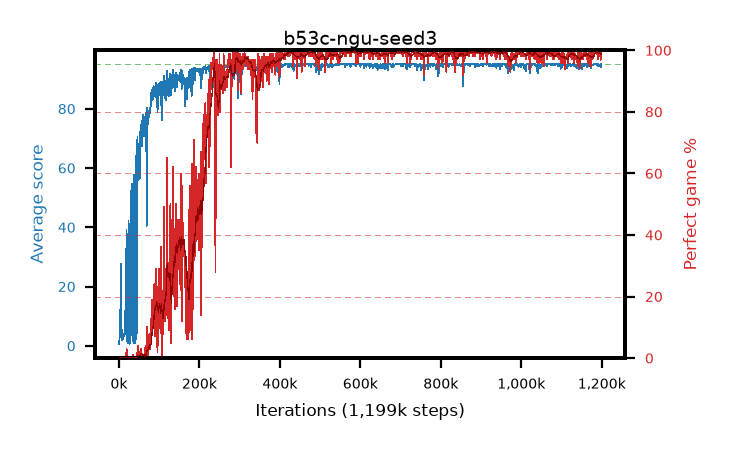
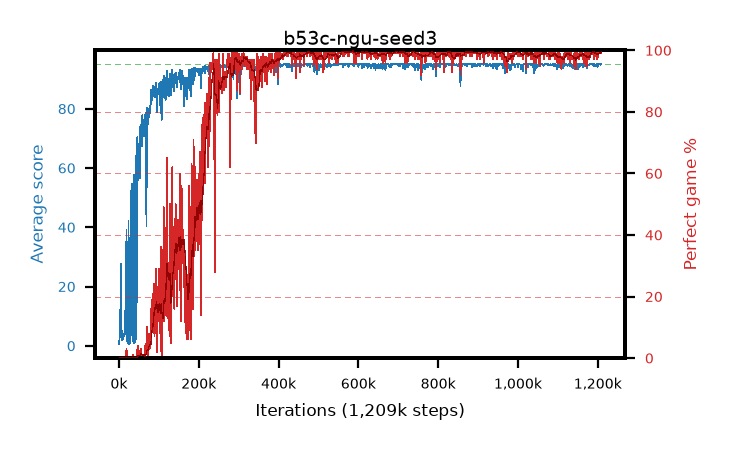
live pictures of 4 arm(s)

diff --git a/results/b53d-ngu-seed4/b53d-ngu-seed4.md b/results/b53d-ngu-seed4/b53d-ngu-seed4.md
@@ -1,6 +1,6 @@
 # b53d-ngu-seed4
 
-step **1,209,000** · 1209 evals · trailing **94.59** · peak **94.94** @1,040,000 · sef **75.0** · best30 **99.7** @1,024,000
+step **1,219,000** · 1219 evals · trailing **94.66** · peak **94.94** @1,040,000 · sef **75.2** · best30 **99.7** @1,024,000
 
 ## Config
 
@@ -80,15 +80,15 @@ step **1,209,000** · 1209 evals · trailing **94.59** · peak **94.94** @1,040,
 | 2000 | 2.39 | 1.47 | 0.0 | 8.0 | 1.286 | 0.0 | 0.4 |
 | 3000 | 6.99 | 3.31 | 0.0 | 25.0 | 5.34 | 0.0 | 0.4 |
 | ... | ... | ... | ... | ... | ... | ... | ... |
-| 1198000 | 95.0 | 94.57 | 95.0 | 95.0 | 193.711 | 100.0 | 0.4 |
-| 1199000 | 94.31 | 94.55 | 29.0 | 95.0 | 190.94 | 98.0 | 0.4 |
-| 1200000 | 95.0 | 94.55 | 95.0 | 95.0 | 193.718 | 100.0 | 0.4 |
-| 1201000 | 94.95 | 94.56 | 90.0 | 95.0 | 192.662 | 99.0 | 0.4 |
-| 1202000 | 94.95 | 94.56 | 90.0 | 95.0 | 192.673 | 99.0 | 0.4 |
-| 1203000 | 94.34 | 94.56 | 29.0 | 95.0 | 192.022 | 99.0 | 0.4 |
-| 1204000 | 95.0 | 94.56 | 95.0 | 95.0 | 193.723 | 100.0 | 0.4 |
-| 1205000 | 95.0 | 94.56 | 95.0 | 95.0 | 193.712 | 100.0 | 0.4 |
-| 1206000 | 94.95 | 94.55 | 90.0 | 95.0 | 192.626 | 99.0 | 0.4 |
-| 1207000 | 94.23 | 94.56 | 23.0 | 95.0 | 190.915 | 98.0 | 0.4 |
 | 1208000 | 94.52 | 94.54 | 47.0 | 95.0 | 192.204 | 99.0 | 0.4 |
 | 1209000 | 94.25 | 94.59 | 20.0 | 95.0 | 191.931 | 99.0 | 0.4 |
+| 1210000 | 94.06 | 94.58 | 21.0 | 95.0 | 190.738 | 98.0 | 0.4 |
+| 1211000 | 95.0 | 94.62 | 95.0 | 95.0 | 193.724 | 100.0 | 0.4 |
+| 1212000 | 95.0 | 94.64 | 95.0 | 95.0 | 193.706 | 100.0 | 0.4 |
+| 1213000 | 95.0 | 94.66 | 95.0 | 95.0 | 193.707 | 100.0 | 0.4 |
+| 1214000 | 94.26 | 94.64 | 23.0 | 95.0 | 190.957 | 98.0 | 0.4 |
+| 1215000 | 95.0 | 94.64 | 95.0 | 95.0 | 193.712 | 100.0 | 0.4 |
+| 1216000 | 94.24 | 94.65 | 19.0 | 95.0 | 191.91 | 99.0 | 0.4 |
+| 1217000 | 94.14 | 94.65 | 20.0 | 95.0 | 190.807 | 98.0 | 0.4 |
+| 1218000 | 95.0 | 94.66 | 95.0 | 95.0 | 193.713 | 100.0 | 0.4 |
+| 1219000 | 95.0 | 94.66 | 95.0 | 95.0 | 193.729 | 100.0 | 0.4 |

diff --git a/results/b53a-ngu-seed1/b53a-ngu-seed1.md b/results/b53a-ngu-seed1/b53a-ngu-seed1.md
@@ -1,6 +1,6 @@
 # b53a-ngu-seed1
 
-step **1,209,000** · 1209 evals · trailing **94.67** · peak **94.96** @643,000 · sef **76.8** · best30 **99.7** @643,000
+step **1,219,000** · 1219 evals · trailing **94.76** · peak **94.96** @643,000 · sef **76.9** · best30 **99.7** @643,000
 
 ## Config
 
@@ -80,15 +80,15 @@ step **1,209,000** · 1209 evals · trailing **94.67** · peak **94.96** @643,00
 | 2000 | 8.43 | 4.84 | 0.0 | 21.0 | 7.201 | 0.0 | 0.4 |
 | 3000 | 8.52 | 6.07 | 0.0 | 26.0 | 5.525 | 0.0 | 0.4 |
 | ... | ... | ... | ... | ... | ... | ... | ... |
-| 1198000 | 94.12 | 94.6 | 13.0 | 95.0 | 189.75 | 97.0 | 0.4 |
-| 1199000 | 94.81 | 94.63 | 85.0 | 95.0 | 190.441 | 97.0 | 0.4 |
-| 1200000 | 94.81 | 94.66 | 79.0 | 95.0 | 191.475 | 98.0 | 0.4 |
-| 1201000 | 94.41 | 94.67 | 36.0 | 95.0 | 192.068 | 99.0 | 0.4 |
-| 1202000 | 94.16 | 94.65 | 50.0 | 95.0 | 188.793 | 96.0 | 0.4 |
-| 1203000 | 94.62 | 94.68 | 60.0 | 95.0 | 191.277 | 98.0 | 0.4 |
-| 1204000 | 93.96 | 94.65 | 20.0 | 95.0 | 190.595 | 98.0 | 0.4 |
-| 1205000 | 94.83 | 94.65 | 78.0 | 95.0 | 192.494 | 99.0 | 0.4 |
-| 1206000 | 94.98 | 94.66 | 93.0 | 95.0 | 192.667 | 99.0 | 0.4 |
-| 1207000 | 95.0 | 94.66 | 95.0 | 95.0 | 193.688 | 100.0 | 0.4 |
 | 1208000 | 95.0 | 94.67 | 95.0 | 95.0 | 193.68 | 100.0 | 0.4 |
 | 1209000 | 94.93 | 94.67 | 88.0 | 95.0 | 192.624 | 99.0 | 0.4 |
+| 1210000 | 95.0 | 94.68 | 95.0 | 95.0 | 193.704 | 100.0 | 0.4 |
+| 1211000 | 94.97 | 94.72 | 92.0 | 95.0 | 192.625 | 99.0 | 0.4 |
+| 1212000 | 95.0 | 94.72 | 95.0 | 95.0 | 193.697 | 100.0 | 0.4 |
+| 1213000 | 95.0 | 94.72 | 95.0 | 95.0 | 193.655 | 100.0 | 0.4 |
+| 1214000 | 95.0 | 94.74 | 95.0 | 95.0 | 193.698 | 100.0 | 0.4 |
+| 1215000 | 94.0 | 94.71 | 10.0 | 95.0 | 190.622 | 98.0 | 0.4 |
+| 1216000 | 94.97 | 94.73 | 92.0 | 95.0 | 192.653 | 99.0 | 0.4 |
+| 1217000 | 95.0 | 94.76 | 95.0 | 95.0 | 193.71 | 100.0 | 0.4 |
+| 1218000 | 94.19 | 94.73 | 14.0 | 95.0 | 191.827 | 99.0 | 0.4 |
+| 1219000 | 94.98 | 94.76 | 93.0 | 95.0 | 192.626 | 99.0 | 0.4 |

diff --git a/results/b53c-ngu-seed3/b53c-ngu-seed3.md b/results/b53c-ngu-seed3/b53c-ngu-seed3.md
@@ -1,6 +1,6 @@
 # b53c-ngu-seed3
 
-step **1,199,000** · 1199 evals · trailing **94.8** · peak **94.93** @574,000 · sef **80.9** · best30 **99.6** @585,000
+step **1,209,000** · 1209 evals · trailing **94.88** · peak **94.93** @574,000 · sef **81.1** · best30 **99.6** @585,000
 
 ## Config
 
@@ -80,15 +80,15 @@ step **1,199,000** · 1199 evals · trailing **94.8** · peak **94.93** @574,000
 | 2000 | 6.19 | 3.38 | 0.0 | 14.0 | 2.147 | 0.0 | 0.4 |
 | 3000 | 12.02 | 6.26 | 1.0 | 18.0 | 7.496 | 0.0 | 0.4 |
 | ... | ... | ... | ... | ... | ... | ... | ... |
-| 1188000 | 95.0 | 94.79 | 95.0 | 95.0 | 193.71 | 100.0 | 0.4 |
-| 1189000 | 94.55 | 94.77 | 50.0 | 95.0 | 192.228 | 99.0 | 0.4 |
-| 1190000 | 94.84 | 94.77 | 87.0 | 95.0 | 190.45 | 97.0 | 0.4 |
-| 1191000 | 94.69 | 94.76 | 75.0 | 95.0 | 191.306 | 98.0 | 0.4 |
-| 1192000 | 95.0 | 94.76 | 95.0 | 95.0 | 193.71 | 100.0 | 0.4 |
-| 1193000 | 94.88 | 94.79 | 83.0 | 95.0 | 192.558 | 99.0 | 0.4 |
-| 1194000 | 94.34 | 94.77 | 32.0 | 95.0 | 191.011 | 98.0 | 0.4 |
-| 1195000 | 94.88 | 94.78 | 83.0 | 95.0 | 192.596 | 99.0 | 0.4 |
-| 1196000 | 94.97 | 94.79 | 92.0 | 95.0 | 192.635 | 99.0 | 0.4 |
-| 1197000 | 95.0 | 94.8 | 95.0 | 95.0 | 193.719 | 100.0 | 0.4 |
 | 1198000 | 94.99 | 94.8 | 94.0 | 95.0 | 192.632 | 99.0 | 0.4 |
 | 1199000 | 94.15 | 94.8 | 18.0 | 95.0 | 189.731 | 97.0 | 0.4 |
+| 1200000 | 94.52 | 94.78 | 48.0 | 95.0 | 191.144 | 98.0 | 0.4 |
+| 1201000 | 95.0 | 94.8 | 95.0 | 95.0 | 193.702 | 100.0 | 0.4 |
+| 1202000 | 95.0 | 94.82 | 95.0 | 95.0 | 193.705 | 100.0 | 0.4 |
+| 1203000 | 95.0 | 94.86 | 95.0 | 95.0 | 193.717 | 100.0 | 0.4 |
+| 1204000 | 95.0 | 94.86 | 95.0 | 95.0 | 193.714 | 100.0 | 0.4 |
+| 1205000 | 94.97 | 94.86 | 92.0 | 95.0 | 192.632 | 99.0 | 0.4 |
+| 1206000 | 94.99 | 94.87 | 94.0 | 95.0 | 192.666 | 99.0 | 0.4 |
+| 1207000 | 94.83 | 94.87 | 78.0 | 95.0 | 192.535 | 99.0 | 0.4 |
+| 1208000 | 95.0 | 94.88 | 95.0 | 95.0 | 193.698 | 100.0 | 0.4 |
+| 1209000 | 94.97 | 94.88 | 92.0 | 95.0 | 192.669 | 99.0 | 0.4 |
